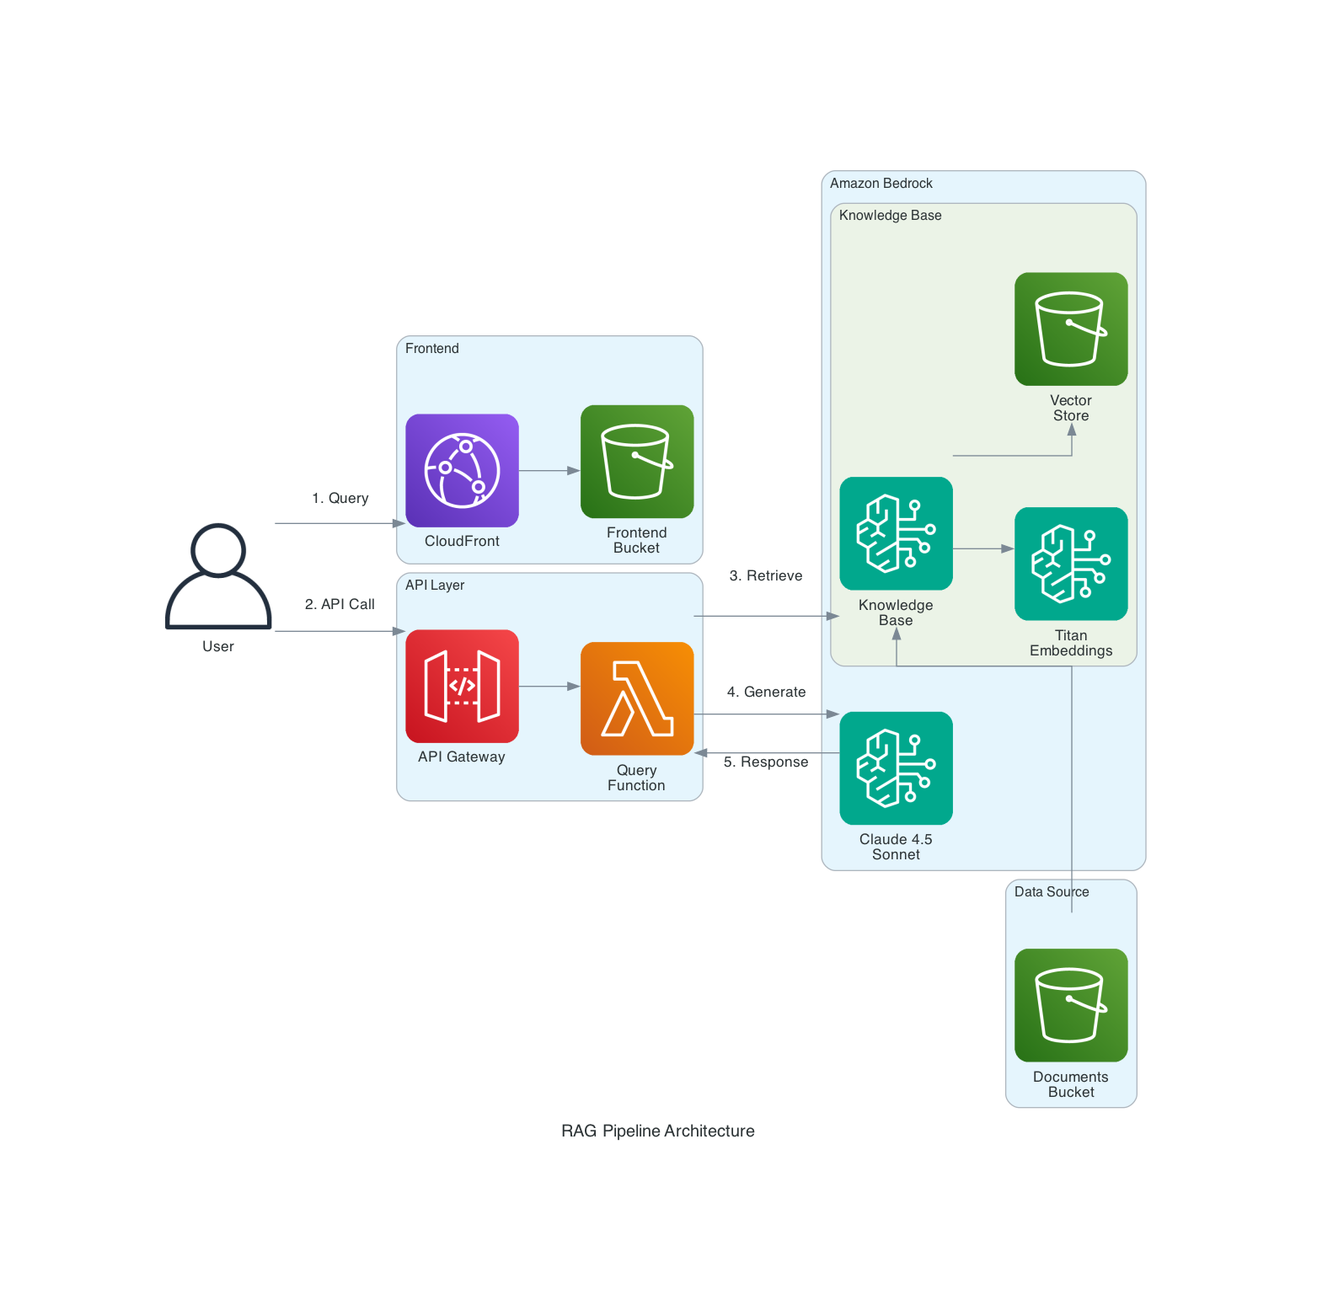
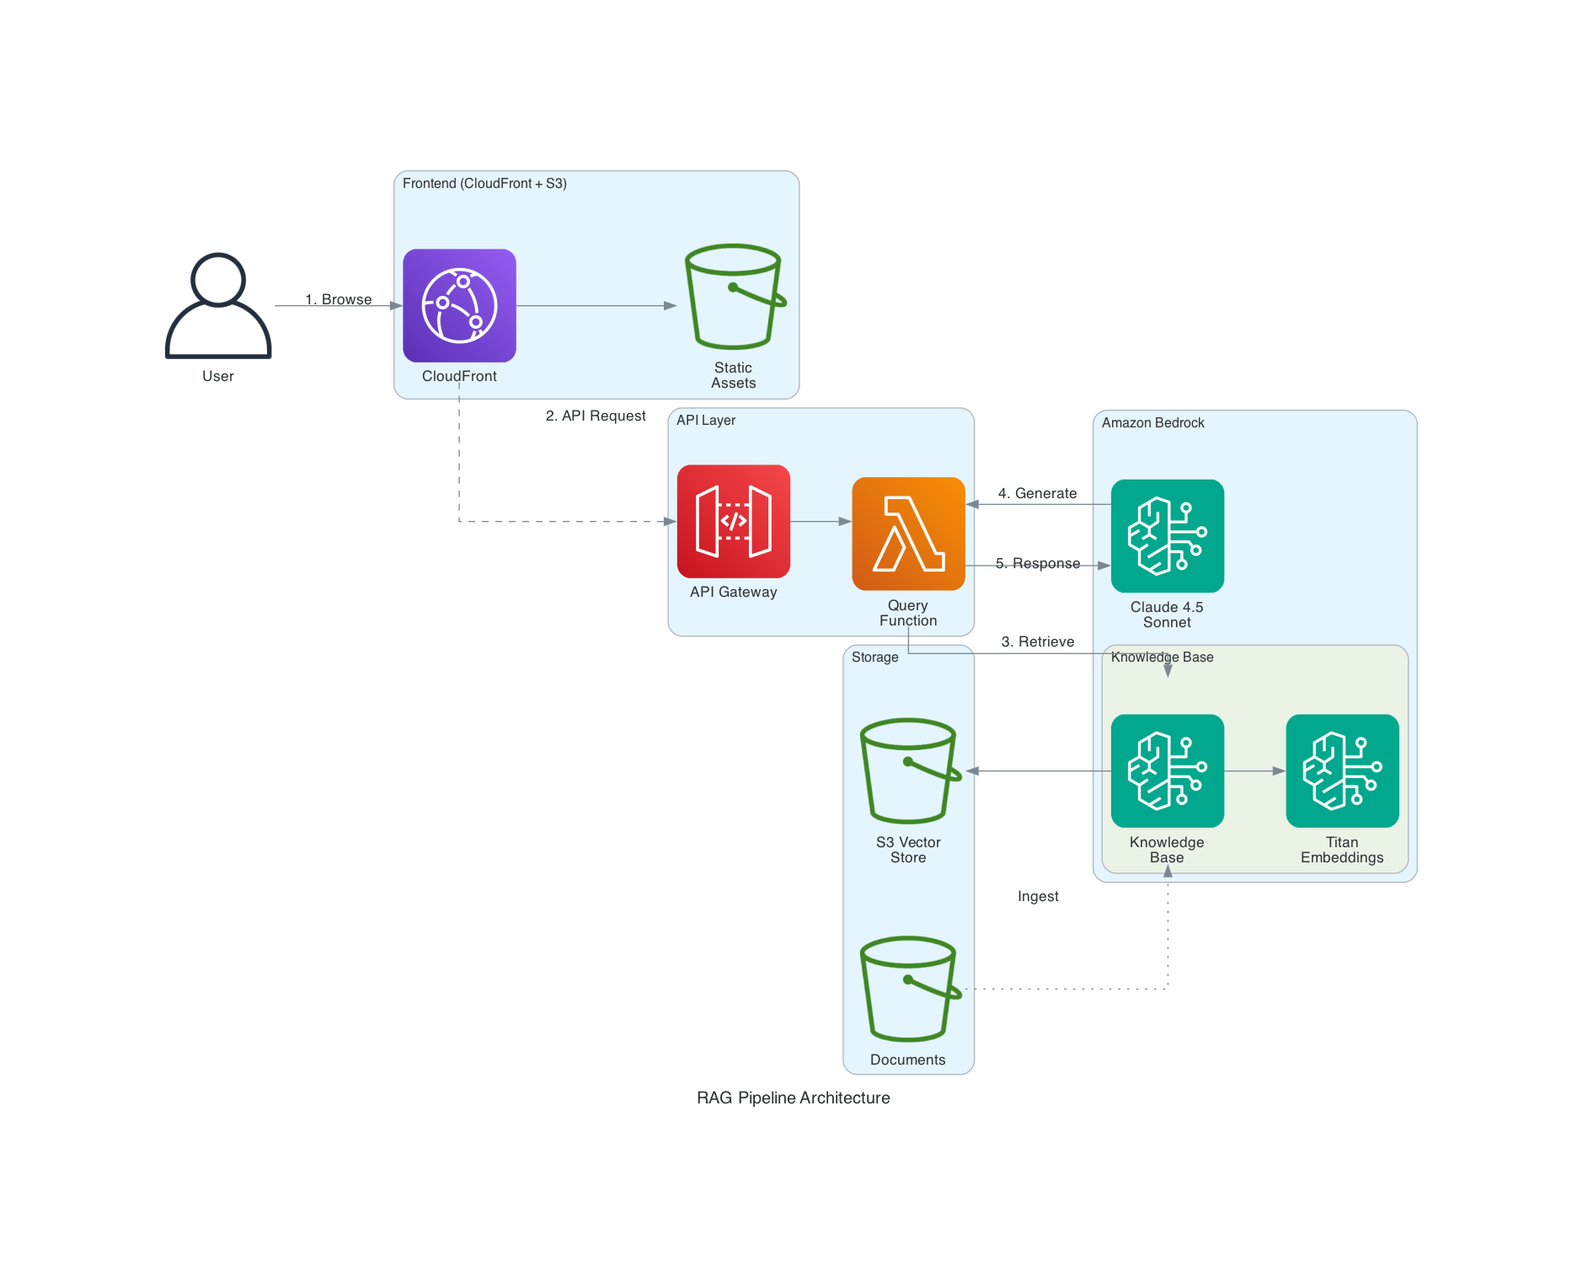
Update to README

diff --git a/frontend/index.html b/frontend/index.html
@@ -551,8 +551,8 @@
                     <div class="config-section">
                         <label>Model</label>
                         <select id="modelSelect">
-                            <option value="anthropic.claude-3-5-sonnet-20240620-v1:0">Claude 3.5 Sonnet</option>
-                            <option value="anthropic.claude-3-haiku-20240307-v1:0">Claude 3 Haiku (Faster)</option>
+                            <option value="anthropic.claude-sonnet-4-5-20250929-v1:0">Claude 4.5 Sonnet</option>
+                            <option value="anthropic.claude-3-5-sonnet-20241022-v2:0">Claude 3.5 Sonnet v2</option>
                             <option value="anthropic.claude-3-sonnet-20240229-v1:0">Claude 3 Sonnet</option>
                         </select>
                     </div>
@@ -644,8 +644,8 @@
                     <div class="config-section">
                         <label>Model</label>
                         <select id="peModelSelect">
-                            <option value="anthropic.claude-3-5-sonnet-20240620-v1:0">Claude 3.5 Sonnet</option>
-                            <option value="anthropic.claude-3-haiku-20240307-v1:0">Claude 3 Haiku (Faster)</option>
+                            <option value="anthropic.claude-sonnet-4-5-20250929-v1:0">Claude 4.5 Sonnet</option>
+                            <option value="anthropic.claude-3-5-sonnet-20241022-v2:0">Claude 3.5 Sonnet v2</option>
                             <option value="anthropic.claude-3-sonnet-20240229-v1:0">Claude 3 Sonnet</option>
                         </select>
                     </div>

diff --git a/scripts/query-knowledge-base.py b/scripts/query-knowledge-base.py
@@ -15,7 +15,7 @@ bedrock_agent = boto3.client('bedrock-agent-runtime')
 bedrock = boto3.client('bedrock-runtime')
 
 # Configuration
-DEFAULT_MODEL_ID = 'anthropic.claude-3-5-sonnet-20240620-v1:0'
+DEFAULT_MODEL_ID = 'anthropic.claude-sonnet-4-5-20250929-v1:0'
 REGION = os.environ.get('AWS_REGION', 'us-east-1')
 
 # Prompt templates

diff --git a/scripts/compare-responses.py b/scripts/compare-responses.py
@@ -16,7 +16,7 @@ bedrock_agent = boto3.client('bedrock-agent-runtime')
 bedrock = boto3.client('bedrock-runtime')
 
 # Configuration
-DEFAULT_MODEL_ID = 'anthropic.claude-3-5-sonnet-20240620-v1:0'
+DEFAULT_MODEL_ID = 'anthropic.claude-sonnet-4-5-20250929-v1:0'
 REGION = os.environ.get('AWS_REGION', 'us-east-1')
 
 

diff --git a/docs/RAG_REFERENCE_ARCHITECTURE.md b/docs/RAG_REFERENCE_ARCHITECTURE.md
@@ -6,67 +6,38 @@ This architecture is designed to be reusable. Fork this repo, swap out the knowl
 
 ---
 
+## Architecture Diagram
+
+![RAG Pipeline Architecture](../diagrams/rag-pipeline-architecture.png)
+
+---
+
 ## Architecture Overview
 
-```
-┌─────────────────────────────────────────────────────────────────────────────┐
-│                              YOUR APPLICATION                                │
-└─────────────────────────────────────────────────────────────────────────────┘
-                                      │
-                                      ▼
-┌─────────────────────────────────────────────────────────────────────────────┐
-│                            API GATEWAY (HTTP)                                │
-│                         • CORS enabled                                       │
-│                         • Rate limiting available                            │
-└─────────────────────────────────────────────────────────────────────────────┘
-                                      │
-                                      ▼
-┌─────────────────────────────────────────────────────────────────────────────┐
-│                            LAMBDA FUNCTION                                   │
-│                         • Query routing logic                                │
-│                         • RAG vs Direct mode                                 │
-│                         • Prompt template injection                          │
-└─────────────────────────────────────────────────────────────────────────────┘
-                                      │
-                    ┌─────────────────┴─────────────────┐
-                    ▼                                   ▼
-┌───────────────────────────────┐     ┌───────────────────────────────────────┐
-│     BEDROCK KNOWLEDGE BASE    │     │         BEDROCK RUNTIME                │
-│  ┌─────────────────────────┐  │     │                                       │
-│  │   Titan Embeddings V2   │  │     │    Claude 3.5 Sonnet (Generation)     │
-│  │   (Semantic Search)     │  │     │                                       │
-│  └─────────────────────────┘  │     └───────────────────────────────────────┘
-│  ┌─────────────────────────┐  │
-│  │   S3 Vector Store       │  │
-│  │   (Simple, Fast)        │  │
-│  └─────────────────────────┘  │
-│  ┌─────────────────────────┐  │
-│  │   Data Source (S3)      │  │
-│  └─────────────────────────┘  │
-└───────────────────────────────┘
-                    │
-                    ▼
-┌───────────────────────────────┐
-│         S3 BUCKET             │
-│   • Your documents            │
-│   • Metadata sidecars         │
-│   • Versioned content         │
-└───────────────────────────────┘
-```
+The RAG pipeline consists of these key components:
+
+| Component | AWS Service | Purpose |
+|-----------|-------------|---------|
+| Frontend | CloudFront + S3 | Secure static hosting with edge caching |
+| API Layer | API Gateway + Lambda | Serverless query handling |
+| Knowledge Base | Bedrock Knowledge Base | Document storage, chunking, retrieval |
+| Vector Store | S3 Vectors | Cost-effective vector storage |
+| Embeddings | Titan Embeddings V2 | Semantic search |
+| Generation | Claude 4.5 Sonnet | Response generation |
 
 ---
 
 ## What Makes This Production-Ready
 
 ### 1. Security
-- **No public S3 buckets** — CloudFront with Origin Access Control
+- **No public S3 buckets** — [CloudFront with Origin Access Control](https://docs.aws.amazon.com/AmazonCloudFront/latest/DeveloperGuide/private-content-restricting-access-to-s3.html)
 - **IAM least privilege** — Each component has minimal required permissions
 - **HTTPS everywhere** — CloudFront enforces TLS
 - **Private knowledge base** — S3 vector store, no external dependencies
 
 ### 2. Scalability
-- **Serverless** — Lambda + API Gateway scale automatically
-- **S3 vector store** — No cluster management, scales with data
+- **Serverless** — [Lambda + API Gateway](https://docs.aws.amazon.com/lambda/latest/dg/services-apigateway.html) scale automatically
+- **S3 vector store** — No cluster management, [scales with data](https://docs.aws.amazon.com/AmazonS3/latest/userguide/s3-vectors-bedrock-kb.html)
 - **CloudFront caching** — Reduces origin load for static assets
 
 ### 3. Cost Efficiency
@@ -160,7 +131,7 @@ documents/
 ```
 
 ### Change Chunking Strategy
-Edit the data source configuration in the CloudFormation template:
+Edit the data source configuration in the CloudFormation template. See [How content chunking works](https://docs.aws.amazon.com/bedrock/latest/userguide/kb-chunking.html) for details.
 
 ```yaml
 VectorIngestionConfiguration:
@@ -200,9 +171,9 @@ Change the model in the Lambda environment or pass it per-request:
 ```yaml
 Environment:
   Variables:
-    DEFAULT_MODEL_ID: 'anthropic.claude-3-haiku-20240307-v1:0'  # Faster, cheaper
-    # Or: 'amazon.titan-text-premier-v1:0'
-    # Or: 'meta.llama3-70b-instruct-v1:0'
+    DEFAULT_MODEL_ID: 'anthropic.claude-sonnet-4-5-20250929-v1:0'  # Default (best quality)
+    # Or: 'anthropic.claude-3-5-sonnet-20241022-v2:0'  # Previous gen, still excellent
+    # Or: 'anthropic.claude-3-haiku-20240307-v1:0'  # Faster, cheaper
 ```
 
 ### Add Streaming Responses
@@ -283,11 +254,13 @@ Or automate with EventBridge + Lambda (see `docs/CUSTOM_CONNECTOR_GUIDE.md`).
 - **Faster to provision**: Minutes vs 15-20 min for OpenSearch
 - **Cheaper**: No minimum compute costs
 - **Good enough**: For most enterprise use cases with < 1M documents
+- See: [Using S3 Vectors with Amazon Bedrock Knowledge Bases](https://docs.aws.amazon.com/AmazonS3/latest/userguide/s3-vectors-bedrock-kb.html)
 
 ### Why CloudFront + OAC?
 - **Security**: No public S3 buckets
 - **Performance**: Edge caching for static assets
 - **Best practice**: AWS recommended pattern
+- See: [Restrict access to an Amazon S3 origin](https://docs.aws.amazon.com/AmazonCloudFront/latest/DeveloperGuide/private-content-restricting-access-to-s3.html)
 
 ### Why Titan Embeddings?
 - **Cost**: ~10x cheaper than alternatives
@@ -299,6 +272,7 @@ Or automate with EventBridge + Lambda (see `docs/CUSTOM_CONNECTOR_GUIDE.md`).
 - **Cost**: Pay only for execution time
 - **Scale**: Automatic scaling to thousands of concurrent requests
 - **Cold starts**: Acceptable for most RAG use cases (< 1s)
+- See: [Invoking Lambda with API Gateway](https://docs.aws.amazon.com/lambda/latest/dg/services-apigateway.html)
 
 ---
 
@@ -314,10 +288,16 @@ Or automate with EventBridge + Lambda (see `docs/CUSTOM_CONNECTOR_GUIDE.md`).
 
 ---
 
-## Resources
+## AWS Documentation References
 
-- [Bedrock Knowledge Bases Documentation](https://docs.aws.amazon.com/bedrock/latest/userguide/knowledge-base.html)
+### Core Services
+- [Amazon Bedrock Knowledge Bases](https://docs.aws.amazon.com/bedrock/latest/userguide/knowledge-base.html)
+- [S3 Vectors with Bedrock](https://docs.aws.amazon.com/AmazonS3/latest/userguide/s3-vectors-bedrock-kb.html)
+- [Knowledge Base Chunking Strategies](https://docs.aws.amazon.com/bedrock/latest/userguide/kb-chunking.html)
+- [CloudFront Origin Access Control](https://docs.aws.amazon.com/AmazonCloudFront/latest/DeveloperGuide/private-content-restricting-access-to-s3.html)
+- [Lambda with API Gateway](https://docs.aws.amazon.com/lambda/latest/dg/services-apigateway.html)
+
+### Additional Resources
 - [Prompt Engineering Guide](https://docs.anthropic.com/claude/docs/prompt-engineering)
-- [RAG Best Practices](https://docs.aws.amazon.com/bedrock/latest/userguide/kb-test-config.html)
 - [Custom Connectors Guide](./CUSTOM_CONNECTOR_GUIDE.md) — Build pipelines for your data sources
 - [Data Preparation Guide](./DATA_PREPARATION_GUIDE.md) — Optimize content for retrieval

diff --git a/presentation-slides.md b/presentation-slides.md
@@ -228,26 +228,20 @@ Range: 0.0 (opposite) to 1.0 (identical)
 ## Slide 16: RAG Pipeline Architecture
 **Production-grade flow**
 
-```
-┌─────────────────────────────────────────────────────────────────┐
-│                    INGESTION PIPELINE                            │
-├─────────────────────────────────────────────────────────────────┤
-│  S3 Bucket        Chunking         Embedding       Vector Store  │
-│  ┌────────┐      ┌────────┐       ┌────────┐      ┌────────┐    │
-│  │ Docs   │  →   │ Split  │   →   │ Titan  │  →   │ AOSS   │    │
-│  │ (PDF,  │      │ 300-   │       │ V2     │      │ Index  │    │
-│  │ TXT)   │      │ 500tok │       │        │      │        │    │
-│  └────────┘      └────────┘       └────────┘      └────────┘    │
-├─────────────────────────────────────────────────────────────────┤
-│                    QUERY PIPELINE                                │
-├─────────────────────────────────────────────────────────────────┤
-│  User Query      Embed Query      Retrieve         Generate      │
-│  ┌────────┐      ┌────────┐      ┌────────┐      ┌────────┐     │
-│  │ "How   │  →   │ Vector │  →   │ Top-K  │  →   │ Claude │     │
-│  │ do I.."│      │        │      │ Chunks │      │ + Ctx  │     │
-│  └────────┘      └────────┘      └────────┘      └────────┘     │
-└─────────────────────────────────────────────────────────────────┘
-```
+![RAG Pipeline Architecture](diagrams/rag-pipeline-architecture.png)
+
+**Key Components:**
+| Component | Service | Purpose |
+|-----------|---------|---------|
+| Frontend | CloudFront + S3 | Secure static hosting |
+| API | API Gateway + Lambda | Query routing |
+| Knowledge Base | Bedrock KB | Retrieval |
+| Vector Store | S3 Vectors | Embeddings storage |
+| Generation | Claude 4.5 Sonnet | Response generation |
+
+**This is a reusable pattern** — fork the repo, swap the docs, deploy for your team.
+
+See: [docs/RAG_REFERENCE_ARCHITECTURE.md](docs/RAG_REFERENCE_ARCHITECTURE.md)
 
 ## Slide 17: Bedrock Knowledge Bases - Under the Hood
 **What the managed service handles**
@@ -278,6 +272,8 @@ Range: 0.0 (opposite) to 1.0 (identical)
 
 **Bedrock defaults:**
 - `maxTokens`: 300
+
+See: [How content chunking works](https://docs.aws.amazon.com/bedrock/latest/userguide/kb-chunking.html)
 - `overlapPercentage`: 10%
 
 **Tuning tip:** Start with defaults, adjust based on retrieval quality
@@ -320,7 +316,7 @@ retrievalConfiguration = {
 
 | Model | Context Window | Effective for RAG |
 |-------|----------------|-------------------|
-| Claude 3.5 Sonnet | 200K tokens | ~150K usable |
+| Claude 4.5 Sonnet | 200K tokens | ~150K usable |
 | Claude 3 Haiku | 200K tokens | ~150K usable |
 
 **Context budget:**
@@ -342,7 +338,7 @@ You'll build a RAG system for Enterprise Support case resolution:
 | Knowledge Base | S3 + Bedrock KB | Store support docs |
 | Vector Store | OpenSearch Serverless | Semantic search |
 | Embeddings | Titan V2 | Document/query encoding |
-| Generation | Claude 3.5 Sonnet | Response generation |
+| Generation | Claude 4.5 Sonnet | Response generation |
 | Interface | RAG Playground (Web UI) | Testing & comparison |
 
 **Time:** 60 minutes

diff --git a/STUDENT_GUIDE.md b/STUDENT_GUIDE.md
@@ -75,7 +75,7 @@ chmod +x scripts/*.py
 2. Click "Model access" in left menu
 3. Click "Manage model access"
 4. Enable these models:
-   - ✅ **Anthropic Claude 3.5 Sonnet** (for generation)
+   - ✅ **Anthropic Claude 4.5 Sonnet** (for generation)
    - ✅ **Amazon Titan Text Embeddings V2** (for embeddings)
 5. Click "Save changes"
 6. Wait for "Access granted" status
@@ -201,20 +201,14 @@ cd ../cloudformation
 
 ## 📊 Architecture Overview
 
-```
-┌─────────────┐     ┌──────────────────┐     ┌─────────────────┐
-│ S3 Bucket   │ →   │ Bedrock KB       │ →   │ Vector Store    │
-│ (Support    │     │ (Chunking +      │     │ (OpenSearch     │
-│  Docs)      │     │  Embedding)      │     │  Serverless)    │
-└─────────────┘     └──────────────────┘     └─────────────────┘
-                                                     │
-                                                     ↓
-┌─────────────┐     ┌──────────────────┐     ┌─────────────────┐
-│ User Query  │ →   │ Retrieve Context │ →   │ Augmented       │
-│ (Support    │     │ (Semantic        │     │ Generation      │
-│  Question)  │     │  Search)         │     │ (Claude)        │
-└─────────────┘     └──────────────────┘     └─────────────────┘
-```
+![RAG Pipeline Architecture](diagrams/rag-pipeline-architecture.png)
+
+| Component | AWS Service | Purpose |
+|-----------|-------------|---------|
+| Frontend | CloudFront + S3 | Secure static hosting |
+| API | API Gateway + Lambda | Query handling |
+| Knowledge Base | Bedrock KB + S3 Vectors | Document retrieval |
+| Generation | Claude 4.5 Sonnet | Response generation |
 
 ## 🔍 Troubleshooting
 
@@ -225,7 +219,7 @@ cd ../cloudformation
 
 ### Issue: "Model access denied"
 - Go to Bedrock console → Model access
-- Enable Claude 3.5 Sonnet and Titan Embeddings
+- Enable Claude 4.5 Sonnet and Titan Embeddings
 - Wait for "Access granted" status
 
 ### Issue: "Empty retrieval results"
@@ -249,7 +243,7 @@ You've successfully built a RAG pipeline using:
 - Amazon Bedrock Knowledge Bases
 - Amazon Titan Embeddings
 - S3 Vector Store
-- Claude 3.5 Sonnet
+- Claude 4.5 Sonnet
 - AWS CloudFormation
 
 **Great job!** 🚀

diff --git a/docs/CUSTOM_CONNECTOR_GUIDE.md b/docs/CUSTOM_CONNECTOR_GUIDE.md
@@ -6,7 +6,9 @@ This guide covers how to build custom connectors to ingest data from various sou
 
 ---
 
-## Overview
+## Architecture Overview
+
+![Data Ingestion Pipeline](../diagrams/data-ingestion-pipeline.png)
 
 While Bedrock Knowledge Bases support native connectors for S3, Web Crawler, Confluence, Salesforce, and SharePoint, you'll often need to ingest data from custom sources:
 
@@ -18,21 +20,7 @@ While Bedrock Knowledge Bases support native connectors for S3, Web Crawler, Con
 
 The pattern is always the same: **Extract → Transform → Load to S3 → Sync KB**
 
----
-
-## Architecture Pattern
-
-```
-┌─────────────────┐     ┌─────────────────┐     ┌─────────────────┐
-│  Data Source    │     │  Lambda/Script  │     │  S3 Bucket      │
-│  (API, DB, etc) │ ──→ │  (ETL Logic)    │ ──→ │  (KB Source)    │
-└─────────────────┘     └─────────────────┘     └─────────────────┘
-                                                        │
-                                                        ↓
-┌─────────────────┐     ┌─────────────────┐     ┌─────────────────┐
-│  RAG Queries    │ ←── │  Bedrock KB     │ ←── │  Sync Job       │
-└─────────────────┘     └─────────────────┘     └─────────────────┘
-```
+See [Amazon Bedrock Knowledge Base Data Sources](https://docs.aws.amazon.com/bedrock/latest/userguide/knowledge-base-ds.html) for native connector options.
 
 ---
 

diff --git a/README.md b/README.md
@@ -31,7 +31,7 @@ A hands-on learning experience that teaches prompt engineering strategies, embed
 1. **AWS Account** with admin access
 2. **Enable Bedrock Models:**
    - Go to AWS Console → Amazon Bedrock → Model access
-   - Enable: **Anthropic Claude 3.5 Sonnet**
+   - Enable: **Anthropic Claude 4.5 Sonnet**
    - Enable: **Amazon Titan Embeddings V2**
    - Wait for "Access granted" status
 

diff --git a/exercise-guide.md b/exercise-guide.md
@@ -327,7 +327,7 @@ echo $KB_ID
 
 ### Issue: "Access Denied" on Bedrock
 1. Go to Bedrock console → Model access
-2. Enable Claude 3.5 Sonnet and Titan Embeddings
+2. Enable Claude 4.5 Sonnet and Titan Embeddings
 3. Wait for "Access granted" status
 
 ### Issue: "Empty retrieval results"

diff --git a/docs/DATA_PREPARATION_GUIDE.md b/docs/DATA_PREPARATION_GUIDE.md
@@ -1,4 +1,4 @@
-# Data Preparation Guide for Enterprise RAG
+gre# Data Preparation Guide for Enterprise RAG
 
 ## Overview
 
